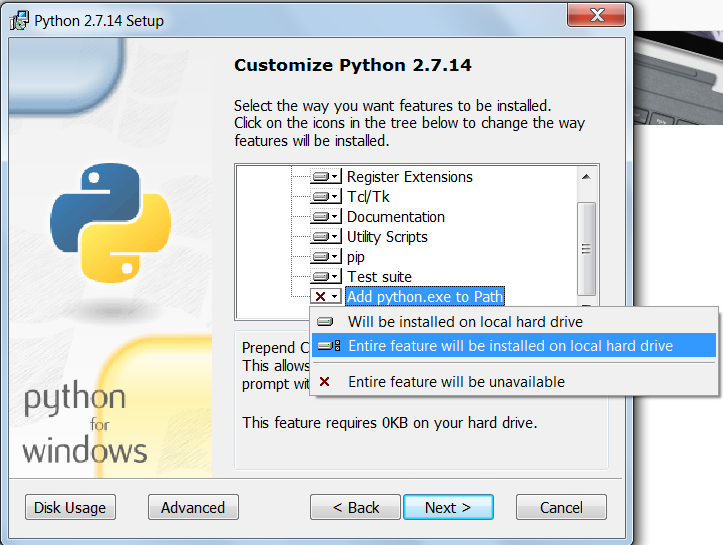
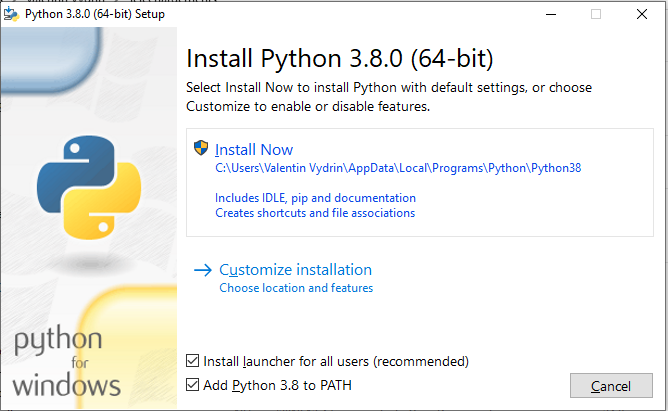
update INSTALL.md
* update screenshot
* add note on Python 2.7 deletion
* reomvve recipe to add Python to PATH manually (for simplicity)

diff --git a/docs/INSTALL.md b/docs/INSTALL.md
@@ -40,14 +40,13 @@ Python 3.7.4
 c:\Users\User>
 ```
 
+If you have Python 2.7 installed on your system you either have to reinstall it
+before using daba, or make sure that you explicitly indicate what python
+version you run each time.
+
 Everything is OK and you can skip to the Step 2. If you see an
 error message that python is not a recognized command, you have two
-options: 
-
-1. Reinstall Python and enable "Add python.exe to Path"
-2. Follow the instructions
-   [here](https://stackoverflow.com/questions/6318156/adding-python-path-on-windows-7#6318188)
-   to add Python to Path. Make sure that you add `C:\Python27;C:\Python27\Scripts`.
+Reinstall Python and enable "Add python.exe to Path".
    
 #### Step 2. Install daba
 
@@ -66,7 +65,7 @@ pip install -U https://github.com/maslinych/daba/archive/maint.zip
 If you see no error messages, you have daba successfully installed and
 can skip to Step 3.
 
-On some Windows versions there may be troubles with automatic wxPython
+On some older Windows versions there may be troubles with automatic wxPython
 installation. In that case refer to [wxPython installation
 documentation](https://www.wxpython.org/pages/downloads/). 
 When wxPython is successfully installed, just run daba installation
